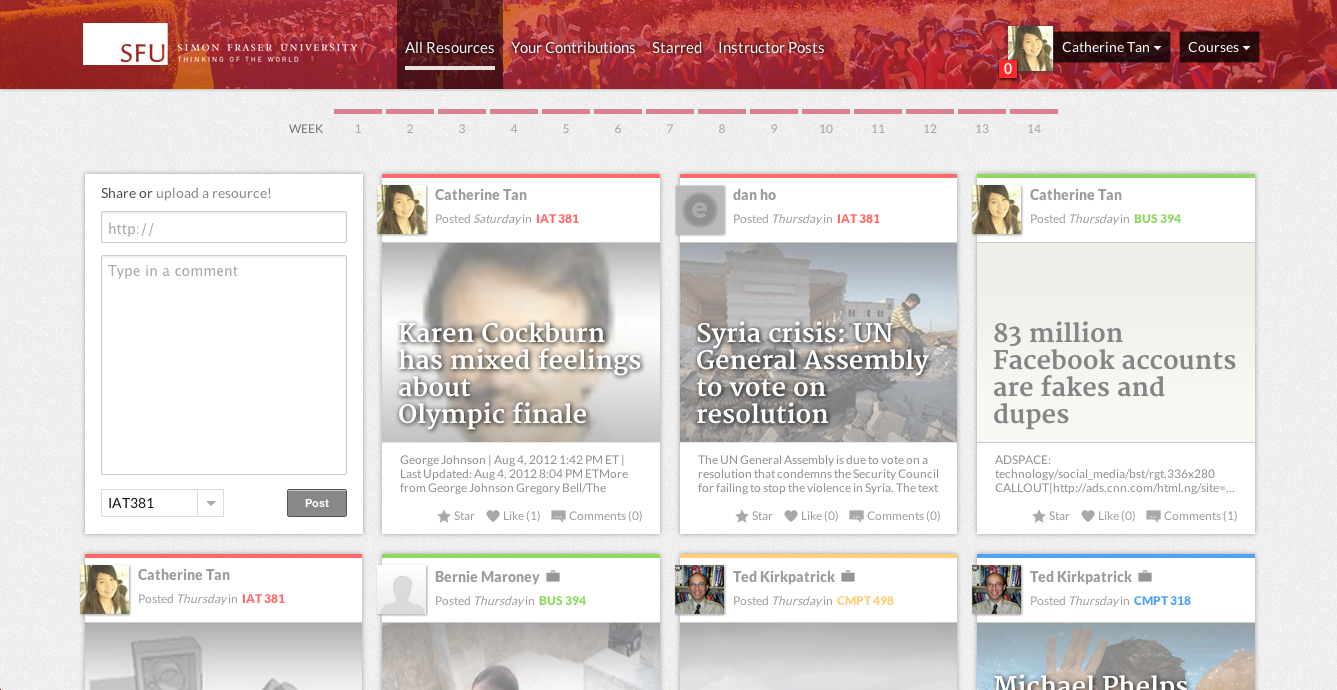
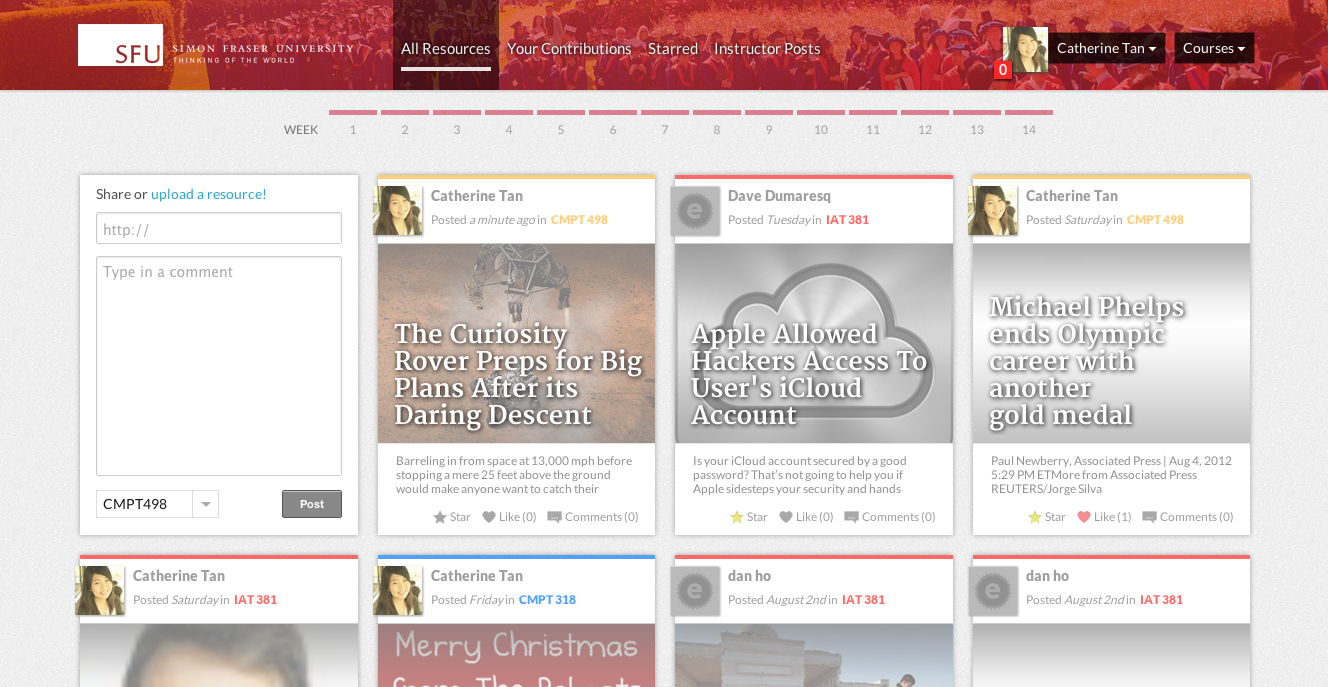
adding new images for engage

diff --git a/public/stylesheets/style.css b/public/stylesheets/style.css
@@ -18,16 +18,21 @@ body{
 	background-repeat: repeat;
 	font-family: 'Quicksand', sans-serif;
 	color: #555;
+	margin-bottom: 20px;
 }
 #header{
 	margin-top: 10px;
 }
+
+#header h1{
+	font-family: 'Quicksand', sans-serif;
+	text-shadow: #D9D9D9 3px 3px 0px;
+	white-space: nowrap;
+	font-weight: normal;
+}
 a{
 	color: #555;
-	    -webkit-transition: all 1s ease-in-out;
-	-moz-transition: all 1s ease-in-out;
-	-o-transition: all 1s ease-in-out;
-	transition: all 1s ease-in-out;
+	padding-bottom: 5px;
 	
 }
 
@@ -36,10 +41,13 @@ a:link{
 	
 }
 a:hover{
-	color: #888;
+	color: #555;
+	
 }
+
+	
 a.button{
-font-family: 'Quicksand', sans-serif;
+	font-family: 'Quicksand', sans-serif;
 	background: #888;
 	border-color: #555;
 	border-radius: 3px;
@@ -57,25 +65,35 @@ div#nav_bar_padding{
 	
 }
 ul#nav_bar{
-	
-	list-style: none;
 	text-align: right;
+	list-style: none;
 }
 ul#nav_bar li.nav{
-	text-align: right;
+	
+	text-align: center;
 	display: inline-block;
-	margin: 0 12px;
+	margin: 0 10px;
+	margin-top:5px;
+	cursor: pointer;
 }
 
 ul#nav_bar li.nav a{
-	font-size: 18px;
-	font-weight: bold;
+	font-size: 20px;
+	font-weight: normal;
+	line-height: 38px;
+	text-shadow: #D9D9D9 1px 1px 0px;
+	}
+	
+
+ul#nav_bar li.nav a:hover{	
+	border-bottom:1px dashed #bcbcbc;
 	}
 ul#nav_bar span.glyph{
-	display: inline-block;
+
+	display: none;
 	margin-right:5px;
-	margin-top: 2px;
-	vertical-align: top;
+	margin-top: 4px;
+	vertical-align: top;s
 }
 /* -----------------------------------------
    Page Name 2
@@ -207,7 +225,7 @@ img.aboutimg{
    engage
 ----------------------------------------- */
 div#engagebox{
-	background-color: rgba(255,255,255,0.6);
+	background-color: rgba(255,255,255,0.8);
 	padding: 10px;
 	
 }
